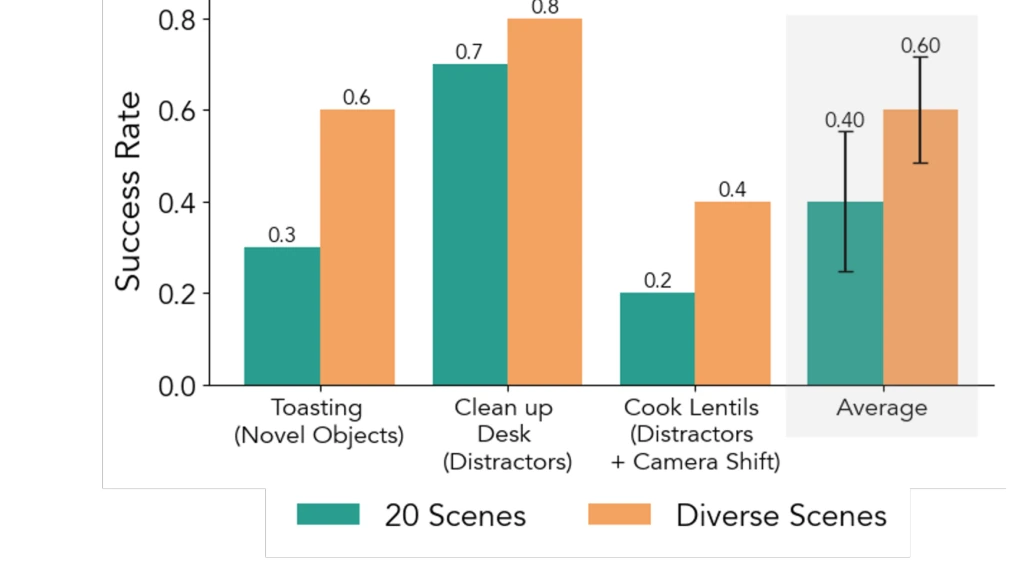
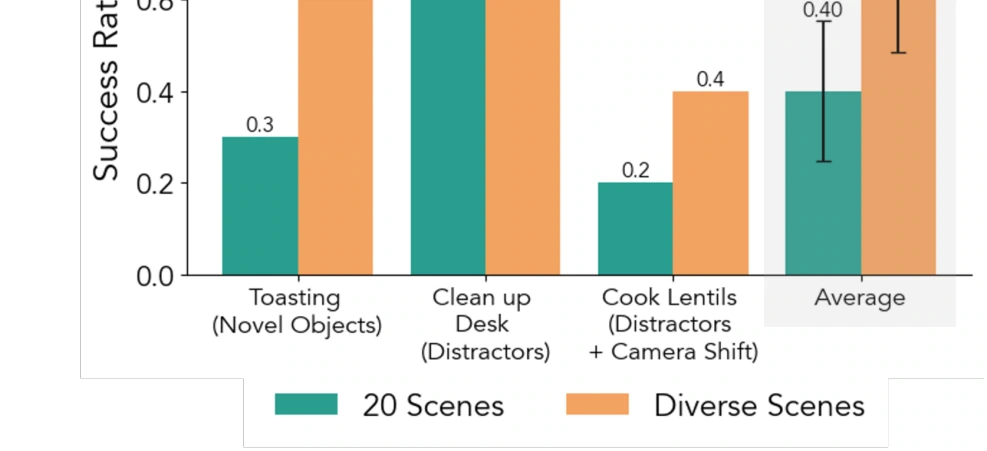
fix(figures): visually reviewed droid original PDF figures

diff --git a/docs/figure-crop-manual-review/droid.md b/docs/figure-crop-manual-review/droid.md
@@ -1,0 +1,23 @@
+# Visually reviewed figure crops: droid
+
+Decision source: direct visual inspection of the original PDF pages.
+The script was used **only** to render manually selected coordinates.
+It never automatically expands, trims, or determines figure boundaries.
+
+Source: https://arxiv.org/pdf/2403.12945
+
+| Figure | Source page | Decision | Original coordinates | Approved coordinates | Visual reason |
+| --- | ---: | --- | --- | --- | --- |
+| 1 | 1 | Manually recut | 22, 352.5, 590, 579.5 | 74, 355, 554, 576 | Exclude vertical arXiv margin from DROID dataset photo overview |
+| 2 | 4 | Manually recut | 21, 66.7, 301, 245.6 | 29, 55, 301, 246 | Include robot camera labels at top |
+| 3 | 5 | Inspected; source crop retained | 22, 42.1, 590, 332.3 | 22, 42.1, 590, 332.3 | Existing rectangle contains the whole figure in source preview. |
+| 4 | 6 | Inspected; source crop retained | 21, 39.2, 301, 230.8 | 21, 39.2, 301, 230.8 | Existing rectangle contains the whole figure in source preview. |
+| 5 | 6 | Inspected; source crop retained | 311, 25, 591, 247.5 | 311, 25, 591, 247.5 | Existing rectangle contains the whole figure in source preview. |
+| 6 | 7 | Inspected; source crop retained | 21, 31.3, 301, 257.1 | 21, 31.3, 301, 257.1 | Existing rectangle contains the whole figure in source preview. |
+| 7 | 8 | Inspected; source crop retained | 22, 35.9, 590, 150.9 | 22, 35.9, 590, 150.9 | Existing rectangle contains the whole figure in source preview. |
+| 8 | 9 | Inspected; source crop retained | 22, 41, 590, 392.2 | 22, 41, 590, 392.2 | Existing rectangle contains the whole figure in source preview. |
+| 9 | 10 | Inspected; source crop retained | 22, 59.4, 590, 280.3 | 22, 59.4, 590, 280.3 | Existing rectangle contains the whole figure in source preview. |
+| 10 | 10 | Manually recut | 21, 370.3, 301, 526.5 | 27, 401, 301, 526 | Remove preceding body paragraph before performance bar chart |
+
+Total visually audited: 10. Rectangles manually corrected: 3.
+Original figure paths and original/translated captions were preserved.
